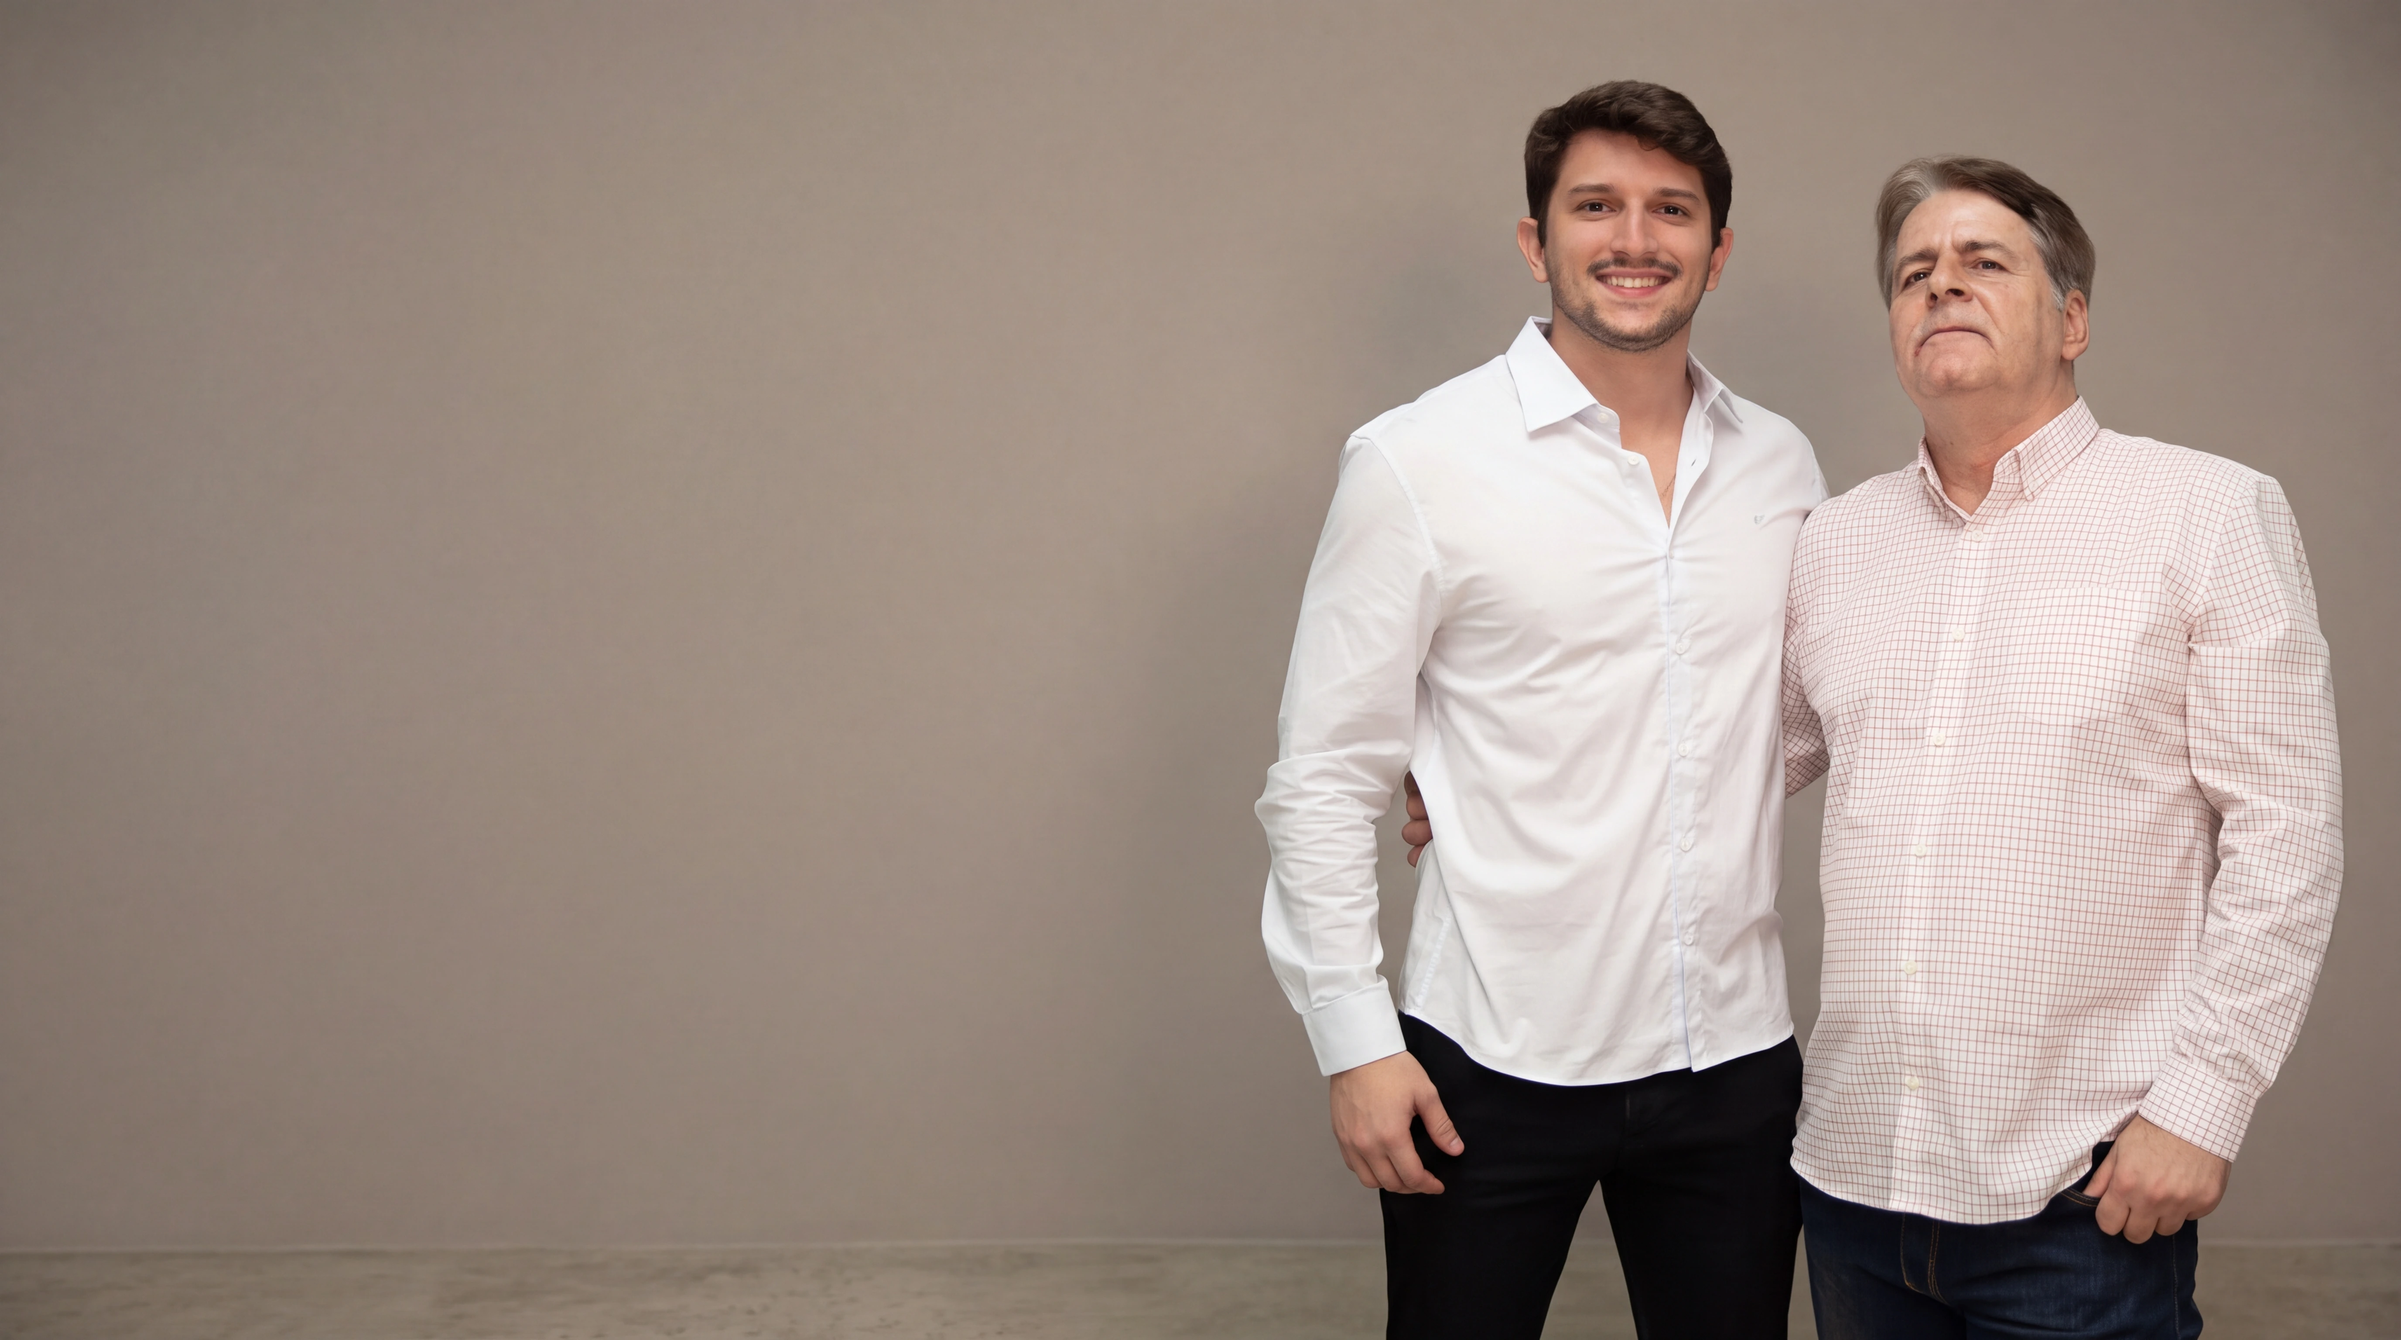
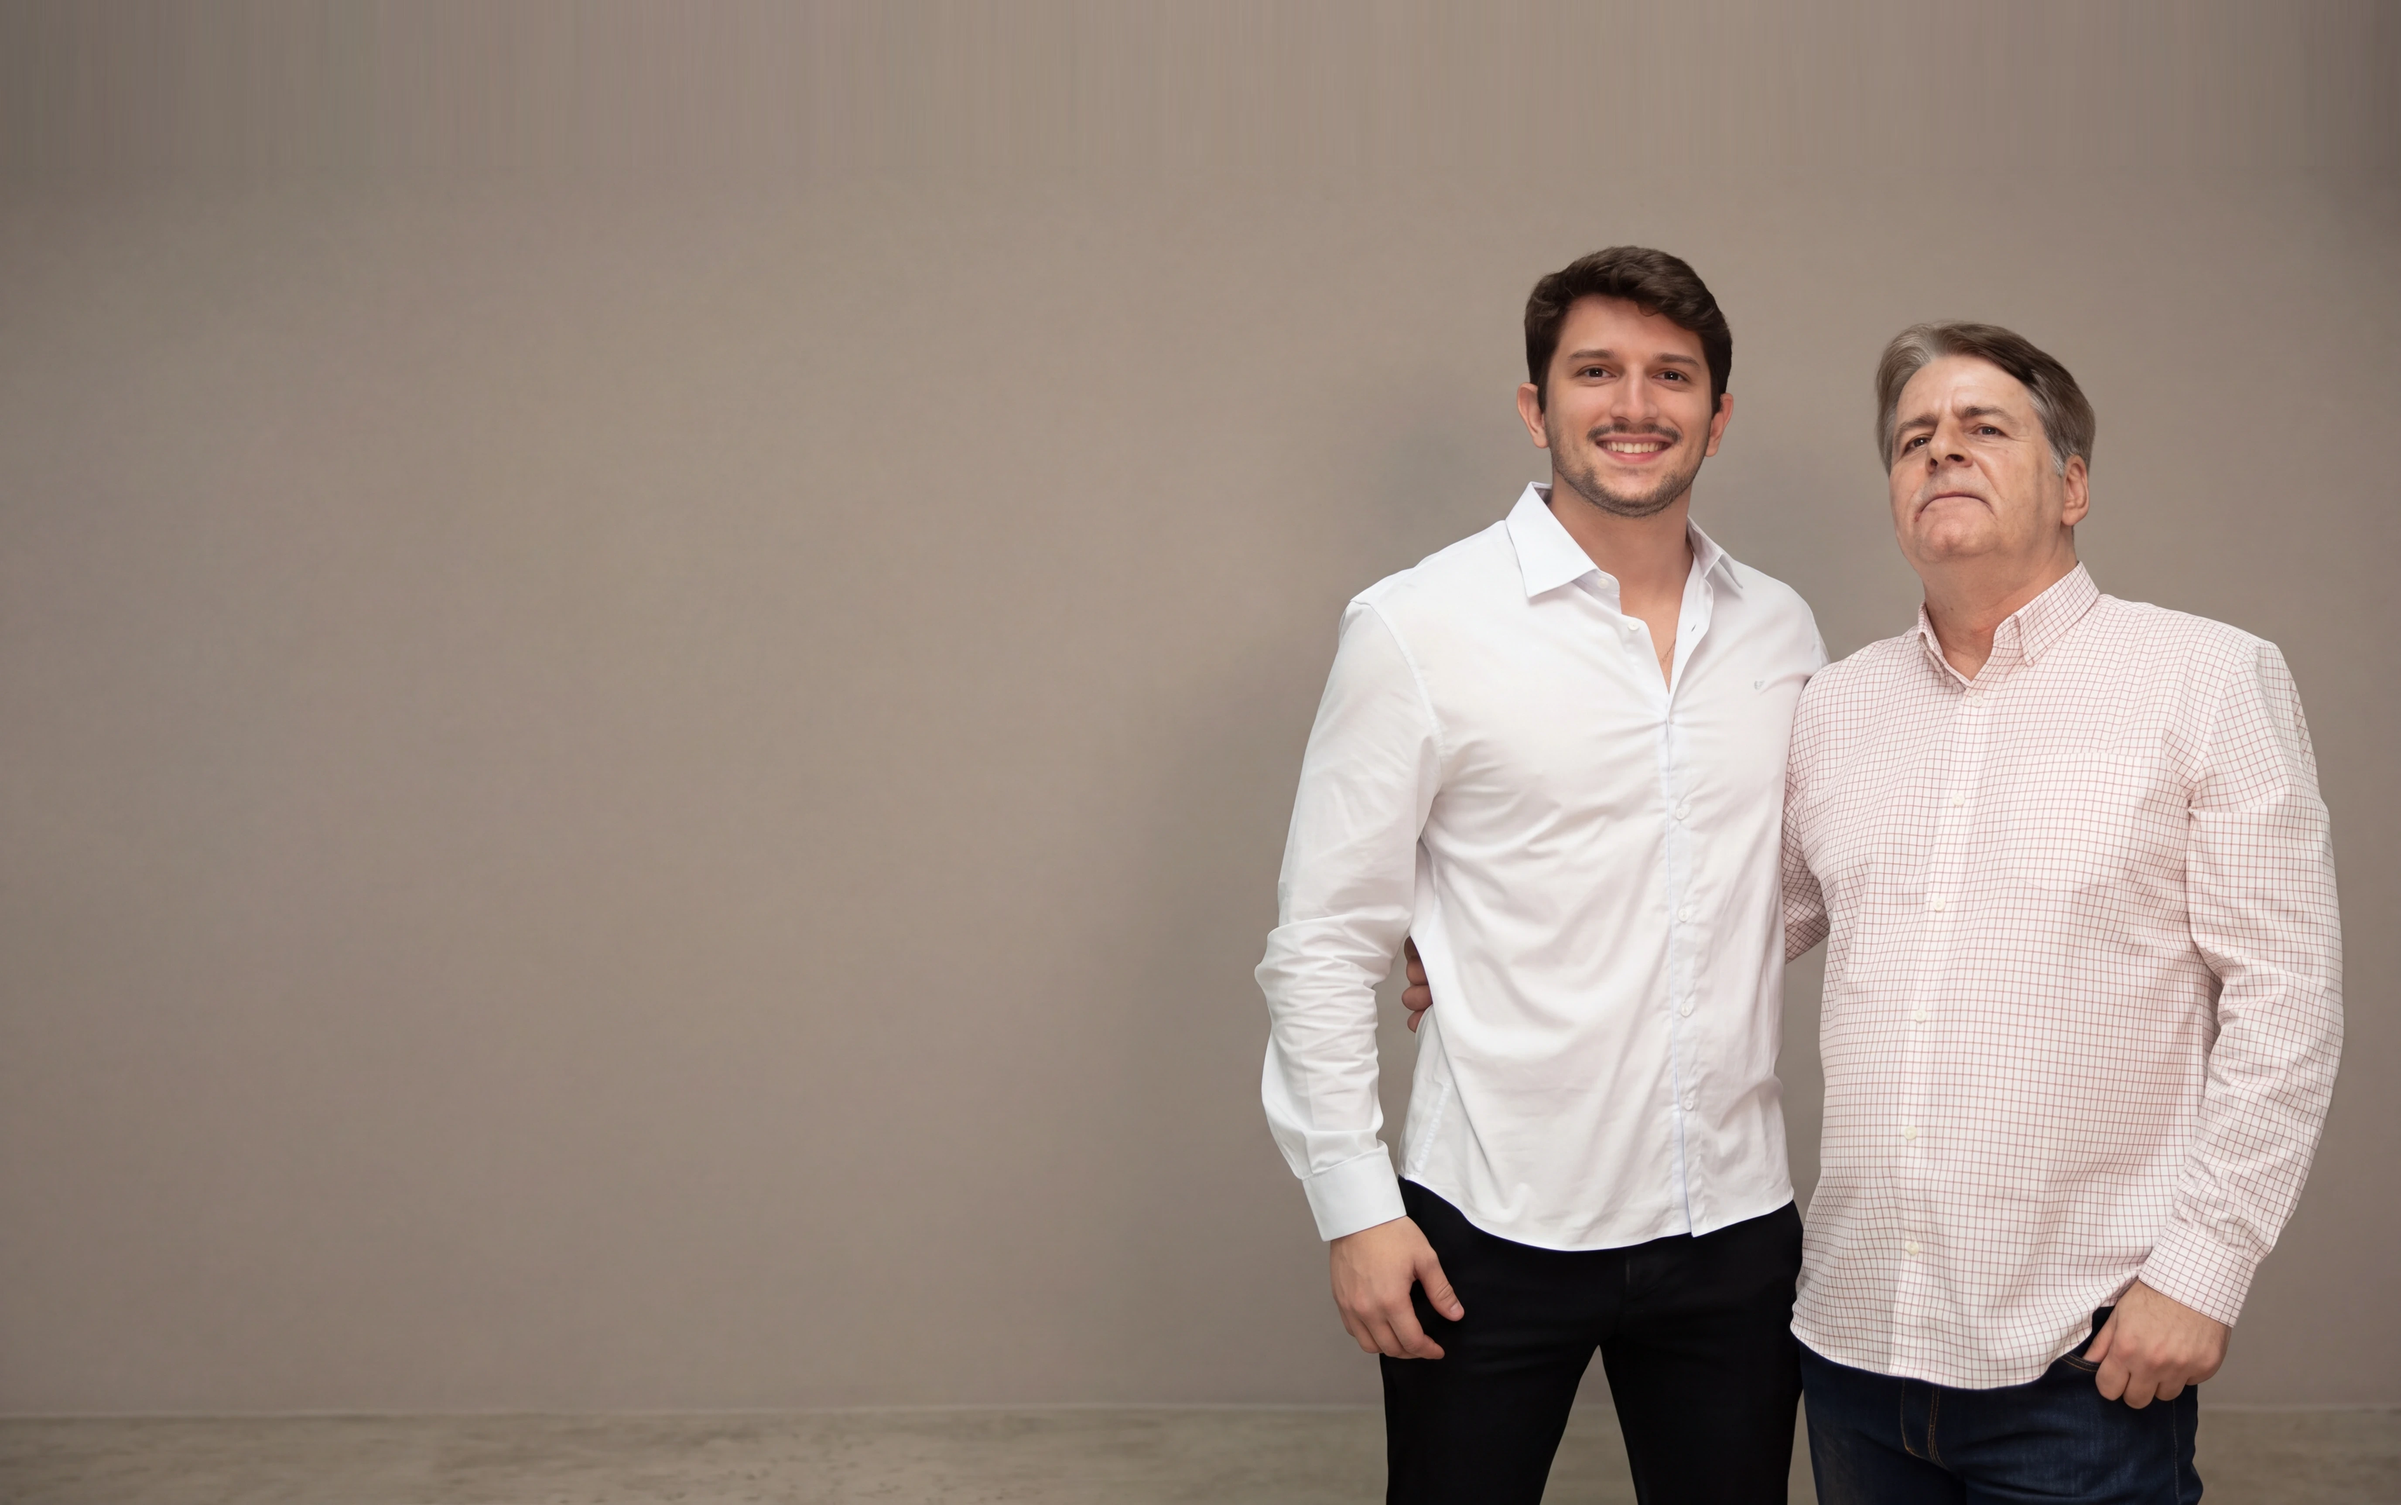
style(hero): estende topo da imagem e rebaixa posicao vertical dos doutores

Changed region(s): [[0.5, 0.0625, 1.0, 0.9375], [0.6562, 0.875, 0.6875, 0.9062]]

diff --git a/assets/css/style.css b/assets/css/style.css
@@ -266,7 +266,7 @@ section[id] { scroll-margin-top: 0; }
   min-height: 100svh;
   display: flex;
   align-items: center;
-  background: #0f1114 url('../images/hero-doutores.webp') right 18% top 28% / cover no-repeat;
+  background: #0f1114 url('../images/hero-doutores.webp?v=2') right 15% top 45% / cover no-repeat;
   color: #ffffff;
   padding: calc(var(--header-h) + 24px) 0 72px;
   overflow: hidden;
@@ -762,7 +762,7 @@ section[id] { scroll-margin-top: 0; }
   .nav-mobile-toggle { display: inline-flex; }
 
   .hero {
-    background-position: right 15% top 24%;
+    background-position: right 15% top 40%;
   }
   .hero::before {
     background: linear-gradient(

diff --git a/index.html b/index.html
@@ -26,7 +26,7 @@
   <link href="https://fonts.googleapis.com/css2?family=Cormorant+Garamond:ital,wght@0,500;0,600;0,700;1,600&family=Plus+Jakarta+Sans:wght@400;500;600;700;800&display=swap" rel="stylesheet">
 
   <!-- CSS Principal -->
-  <link rel="stylesheet" href="./assets/css/style.css?v=8">
+  <link rel="stylesheet" href="./assets/css/style.css?v=9">
 
   <!-- Structured Data JSON-LD -->
   <script type="application/ld+json">
